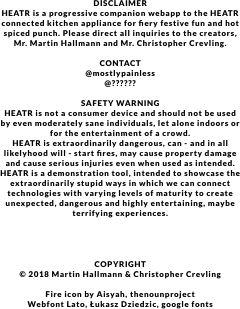
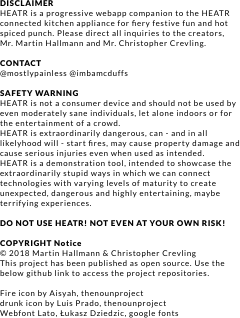
updated html, css

diff --git a/css/main.css b/css/main.css
@@ -298,6 +298,8 @@ html, body {
   width: 100%;
   overflow: hidden;
   position: relative;
+  background: #dedede url('../img/background.png') center top;
+  background-size: auto;
 }
 
 #interface {
@@ -306,6 +308,14 @@ html, body {
   height: 100%;
   overflow: hidden;
   position: relative;
+  transform: perspective(400px) rotateY(0);
+  transition: transform .5s;
+
+}
+
+#interface.about {
+  transform: perspective(400px) rotateY(180deg);
+  transition: transform .5s;
 }
 
 section {
@@ -318,12 +328,20 @@ section {
   position: relative;
 }
 
+#front {
+  top: -100%;
+}
+
+#back {
+  transform: perspective(400px) translateZ(-0px) rotateY(180deg);
+}
+
 #side {
   display: none;
 
 }
 
-#front.hide, #back.hide {
+#large {
   display: none;
 }
 
@@ -342,7 +360,7 @@ section {
   display: block;
   content: '';
   width: 240px;
-  height: 309px;
+  height: 318px;
   margin: -124px -120px;
   position: absolute;
   top: 50%;
@@ -370,6 +388,17 @@ section {
   border: 0;
   outline: 0;
   transition: all 5s;
+}
+
+.info-large {
+  display: block;
+  width: 674px;
+  height: 233px;
+  margin: -116px -337px;
+  position: absolute;
+  top: 50%;
+  left: 50%;
+  background: url('../img/large.png') center center;
 }
 
 #heatr {
@@ -430,8 +459,24 @@ section {
   background: url('../img/tweet.png') center center;
 }
 
+#github {
+  display: block;
+  width: 46px;
+  height: 46px;
+  margin: 0;
+  position: absolute;
+  bottom: 30px;
+  left: 30px;
+  background: url('../img/github.png') center center;
+}
+
 @media only screen and (min-width: 460px) {
-  #front, #back { display: none; }
+  #front, #back, #large { display: none; }
   #side { display: block; }
 
+}
+
+@media only screen and (min-width: 824px) {
+  #front, #back, #side { display: none; }
+  #large { display: block; }
 }

diff --git a/index.html b/index.html
@@ -4,7 +4,7 @@
 <head>
   <meta charset="utf-8">
   <meta http-equiv="x-ua-compatible" content="ie=edge">
-  <title></title>
+  <title>HEATR Companion</title>
   <meta name="description" content="">
   <meta name="viewport" content="width=device-width, initial-scale=1, shrink-to-fit=no">
 
@@ -31,6 +31,16 @@
   -->
 
   <main id="interface">
+
+    <section id="back">
+      <div class="title"></div>
+
+      <div class="disclaimer"></div>
+
+      <a href="#" id="x"></a>
+      <a target="_blank" href="http://bit.ly/iob-repo" id="github"></a>
+    </section>
+
     <section id="front">
       <div class="title"></div>
 
@@ -40,17 +50,13 @@
       <a target="_blank" href="https://ctt.ac/bvXO0" id="tweet"></a>
     </section>
 
-    <section id="back" class="hide">
-      <div class="title"></div>
-
-      <div class="disclaimer"></div>
-
-      <a href="#" id="x"></a>
-
-    </section>
 
     <section id="side">
       <div class="are-you-drunk-yet"></div>
+    </section>
+
+    <section id="large">
+      <div class="info-large"></div>
     </section>
   </main>
 

diff --git a/js/main.js b/js/main.js
@@ -1,12 +1,17 @@
+var about = false;
 
 document.getElementById('about').addEventListener('click', function () {
   console.log('?');
-  document.getElementById('front').classList.add('hide');
-  document.getElementById('back').classList.remove('hide');
+  if (!about) {
+    document.getElementById('interface').classList.add('about');
+  } else {
+    document.getElementById('interface').classList.remove('about');
+  }
+  about = !about;
 });
 
 document.getElementById('x').addEventListener('click', function () {
   console.log('x');
-  document.getElementById('back').classList.add('hide');
-  document.getElementById('front').classList.remove('hide');
+  document.getElementById('interface').classList.remove('about');
+
 });
